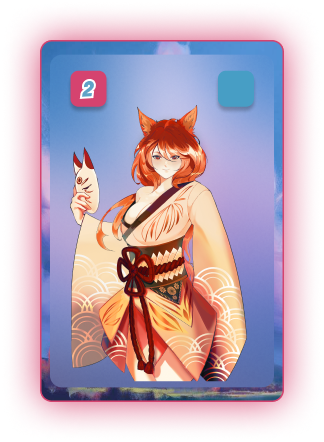
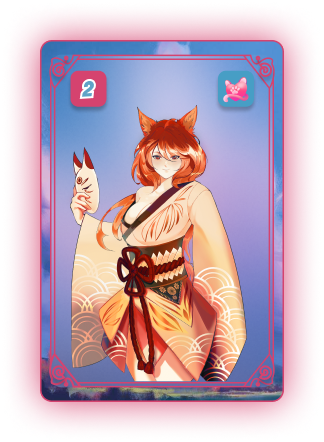
some fix

Changed region(s): [[0.1543, 0.1176, 0.8642, 0.8824], [0.679, 0.1765, 0.7716, 0.2353]]

diff --git a/components/grow-waifu/index.tsx b/components/grow-waifu/index.tsx
@@ -49,7 +49,7 @@ export const GrowWaifu: React.FC<GrowWaifuProps> = ({ className }) => (
           ratingBackgroundColor="#e8dc3f"
           rating="3"
         />*/}
-        <Image src="/images/mimi_card3.png" alt="mimi_card"  width={244} height={362}/>
+        <Image src="/images/question_card.png" alt="mimi_card"  width={244} height={362}/>
       </div>
     </Container>
   </section>

diff --git a/components/contact_info/contact.module.scss b/components/contact_info/contact.module.scss
@@ -1,5 +1,5 @@
 .container{
   max-width: 220px;
   text-align: center;
-  margin: 150px auto;
+  margin: 150px auto 0 auto;
 }

diff --git a/components/types-of-rarity/types-of-rarity.module.scss b/components/types-of-rarity/types-of-rarity.module.scss
@@ -93,6 +93,7 @@
   position: relative;
   width: 100%;
   margin-left: 10px;
+  text-align: center;
 }
 
 .cardName {
